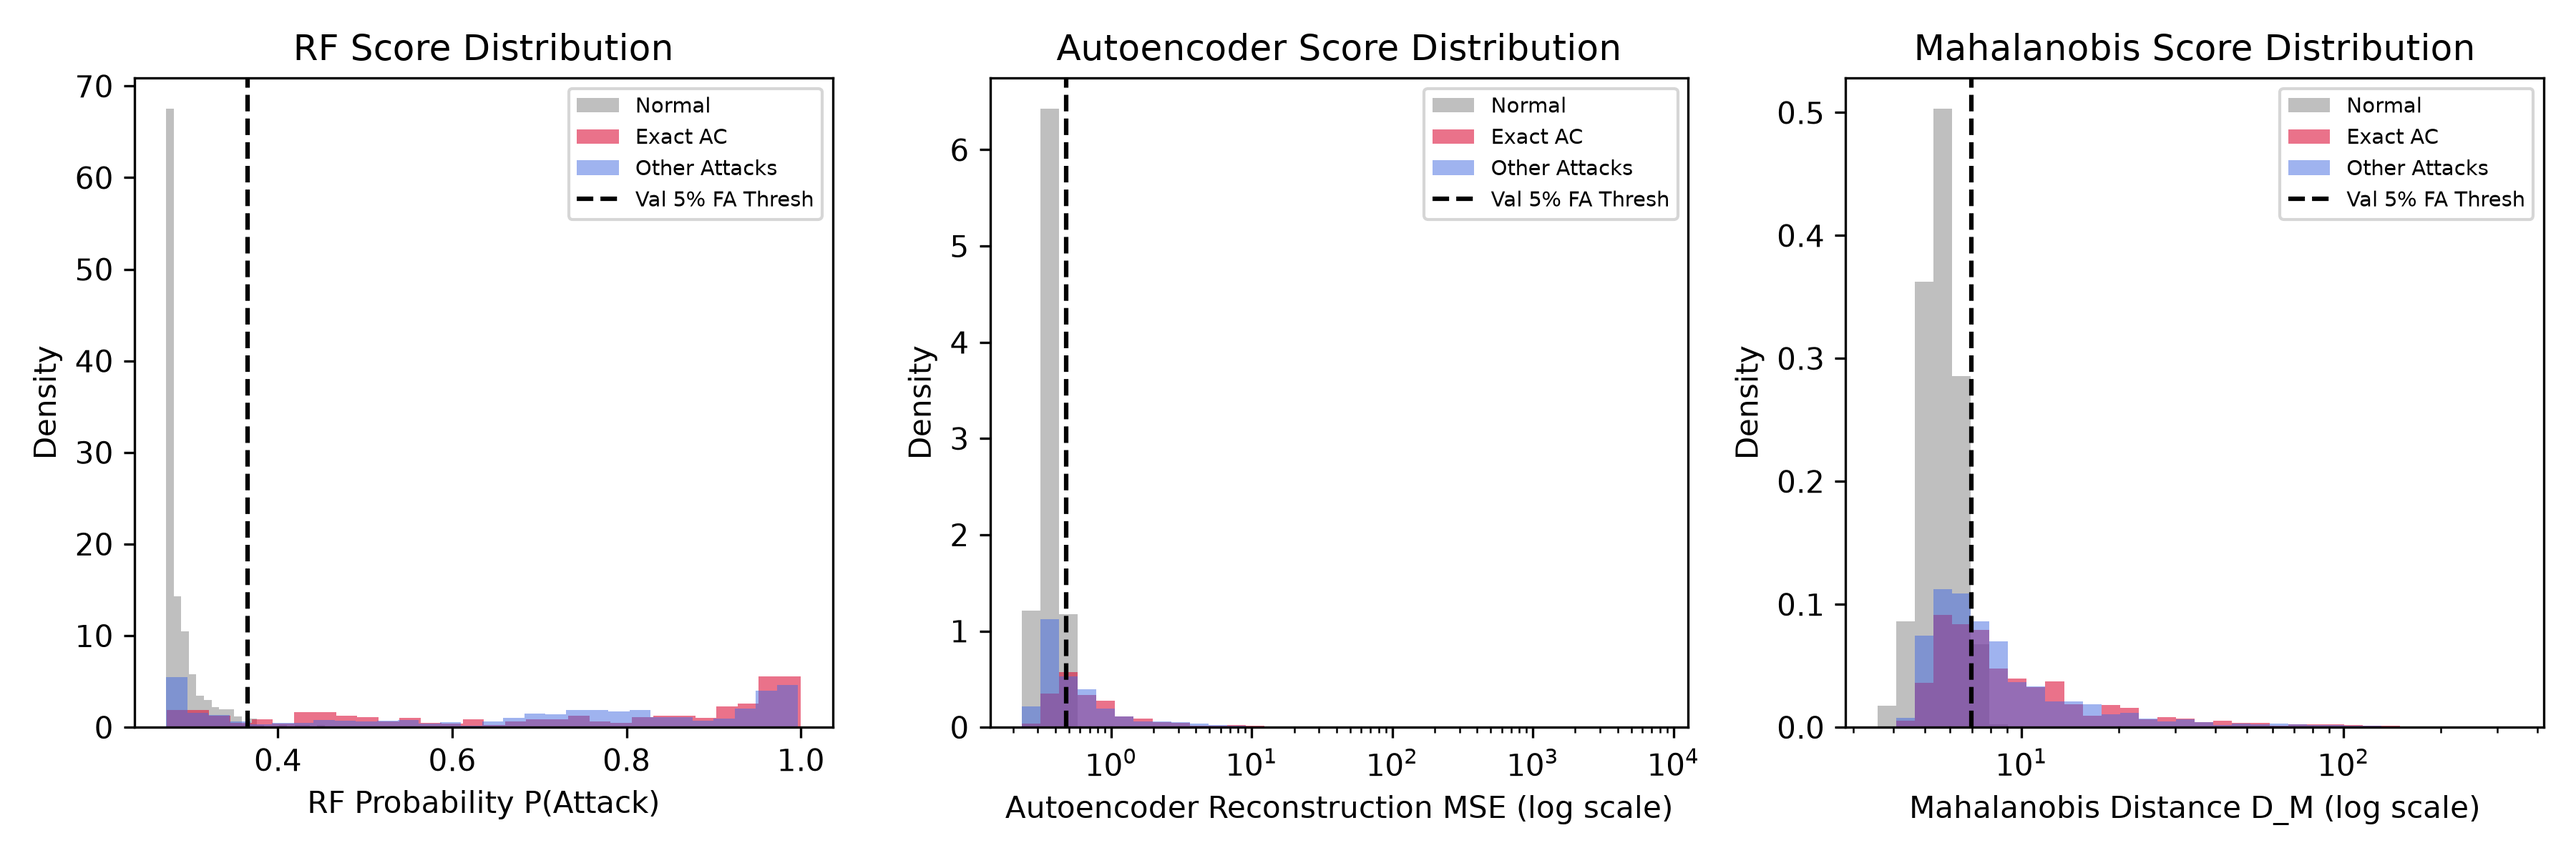
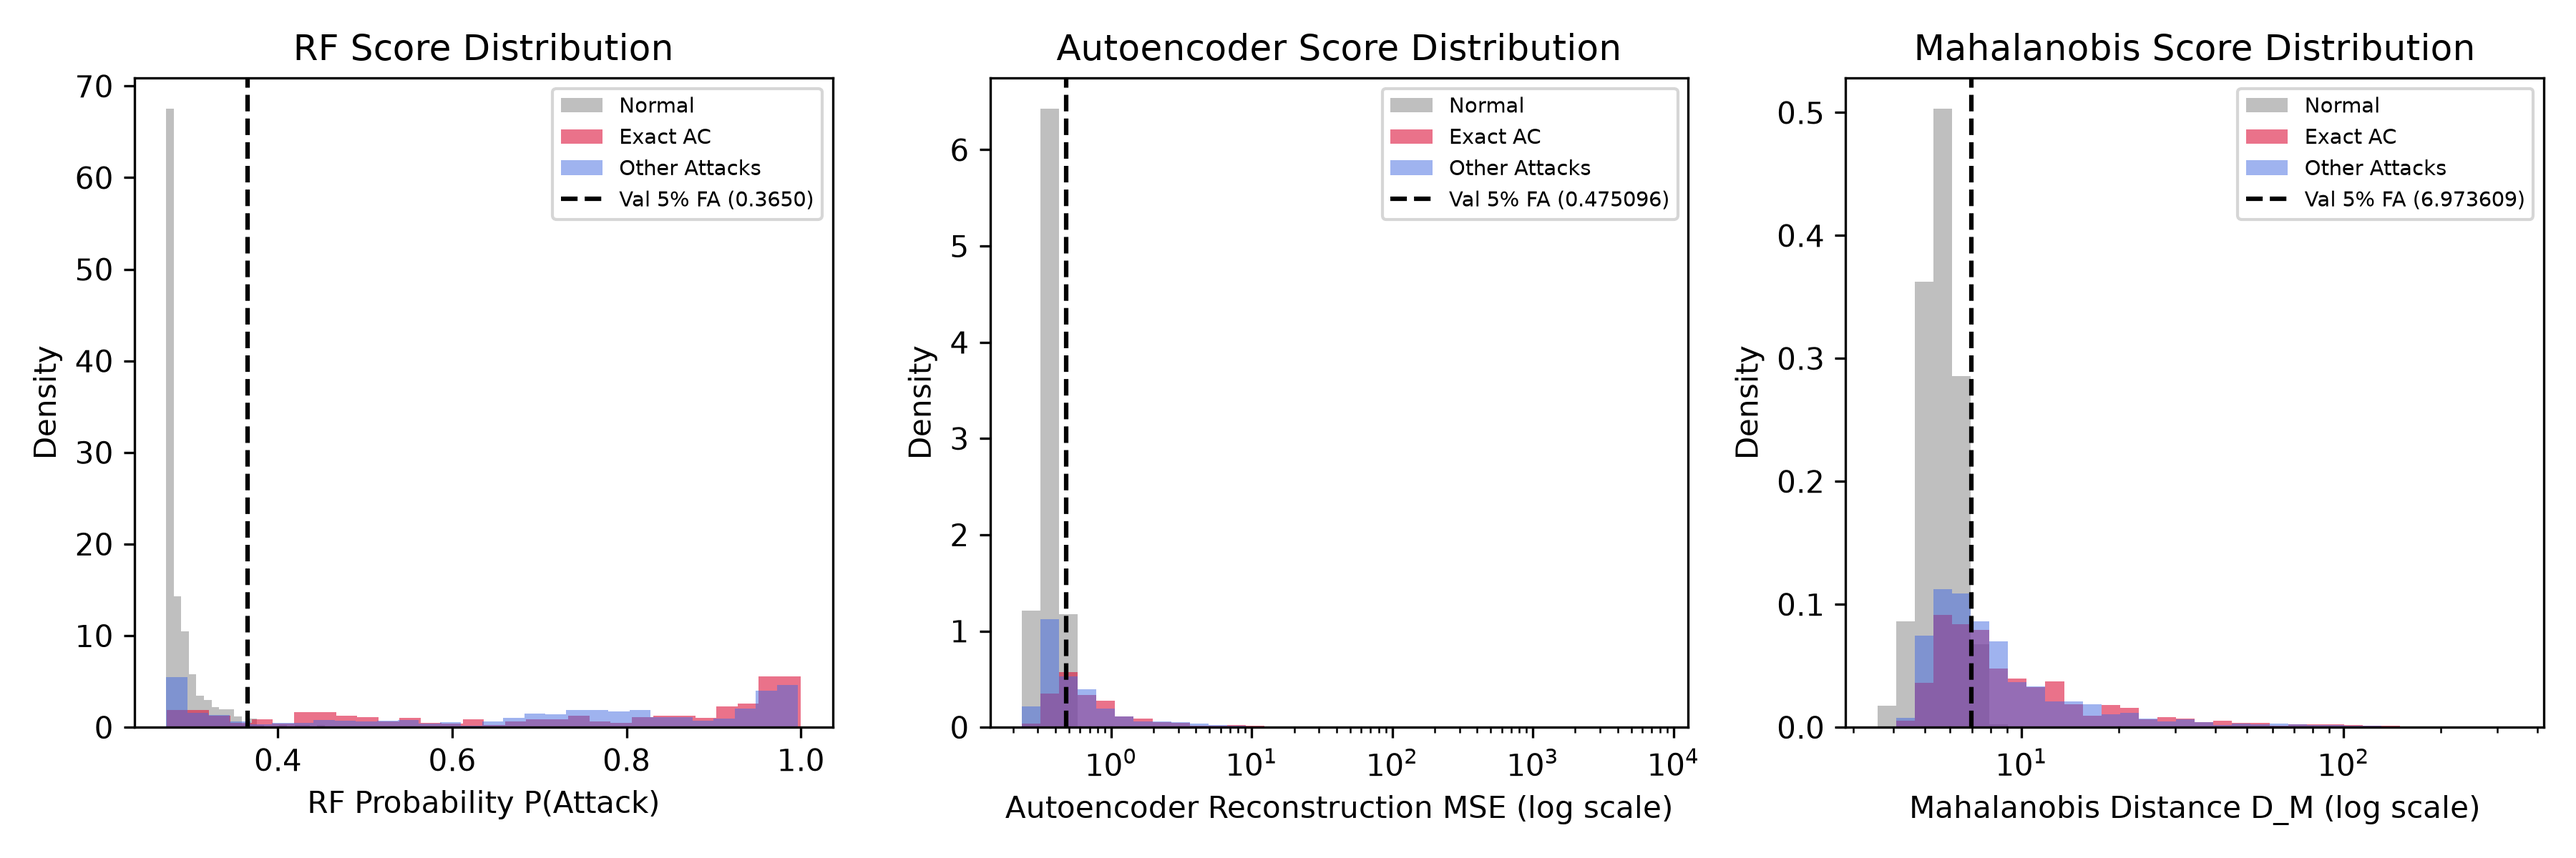
Confirm score_distributions.png uses exact pipeline threshold values in legend

Changed region(s): [[0.5289, 0.0925, 0.6533, 0.2467], [0.8711, 0.0925, 0.9956, 0.2467], [0.2178, 0.0925, 0.3111, 0.2467]]

diff --git a/python/run_task8.py b/python/run_task8.py
@@ -828,7 +828,7 @@ def main():
     plt.hist(rf_prim_test_scores[norm_mask_test], bins=30, density=True, alpha=0.5, label="Normal", color="gray")
     plt.hist(rf_prim_test_scores[exact_mask_test], bins=30, density=True, alpha=0.6, label="Exact AC", color="crimson")
     plt.hist(rf_prim_test_scores[att_mask_test & ~exact_mask_test], bins=30, density=True, alpha=0.5, label="Other Attacks", color="royalblue")
-    plt.axvline(rf_prim_th_5fa, color="black", linestyle="--", label="Val 5% FA Thresh")
+    plt.axvline(rf_prim_th_5fa, color="black", linestyle="--", label=f"Val 5% FA ({rf_prim_th_5fa:.4f})")
     plt.xlabel("RF Probability P(Attack)")
     plt.ylabel("Density")
     plt.title("RF Score Distribution")
@@ -841,7 +841,7 @@ def main():
     plt.hist(ae_prim_test_scores[norm_mask_test], bins=bins_ae, density=True, alpha=0.5, label="Normal", color="gray")
     plt.hist(ae_prim_test_scores[exact_mask_test], bins=bins_ae, density=True, alpha=0.6, label="Exact AC", color="crimson")
     plt.hist(ae_prim_test_scores[att_mask_test & ~exact_mask_test], bins=bins_ae, density=True, alpha=0.5, label="Other Attacks", color="royalblue")
-    plt.axvline(ae_prim_th_5fa, color="black", linestyle="--", label="Val 5% FA Thresh")
+    plt.axvline(ae_prim_th_5fa, color="black", linestyle="--", label=f"Val 5% FA ({ae_prim_th_5fa:.6f})")
     plt.xscale("log")
     plt.xlabel("Autoencoder Reconstruction MSE (log scale)")
     plt.ylabel("Density")
@@ -855,7 +855,7 @@ def main():
     plt.hist(mahal_test[norm_mask_test], bins=bins_m, density=True, alpha=0.5, label="Normal", color="gray")
     plt.hist(mahal_test[exact_mask_test], bins=bins_m, density=True, alpha=0.6, label="Exact AC", color="crimson")
     plt.hist(mahal_test[att_mask_test & ~exact_mask_test], bins=bins_m, density=True, alpha=0.5, label="Other Attacks", color="royalblue")
-    plt.axvline(mahal_th_5fa, color="black", linestyle="--", label="Val 5% FA Thresh")
+    plt.axvline(mahal_th_5fa, color="black", linestyle="--", label=f"Val 5% FA ({mahal_th_5fa:.6f})")
     plt.xscale("log")
     plt.xlabel("Mahalanobis Distance D_M (log scale)")
     plt.ylabel("Density")
